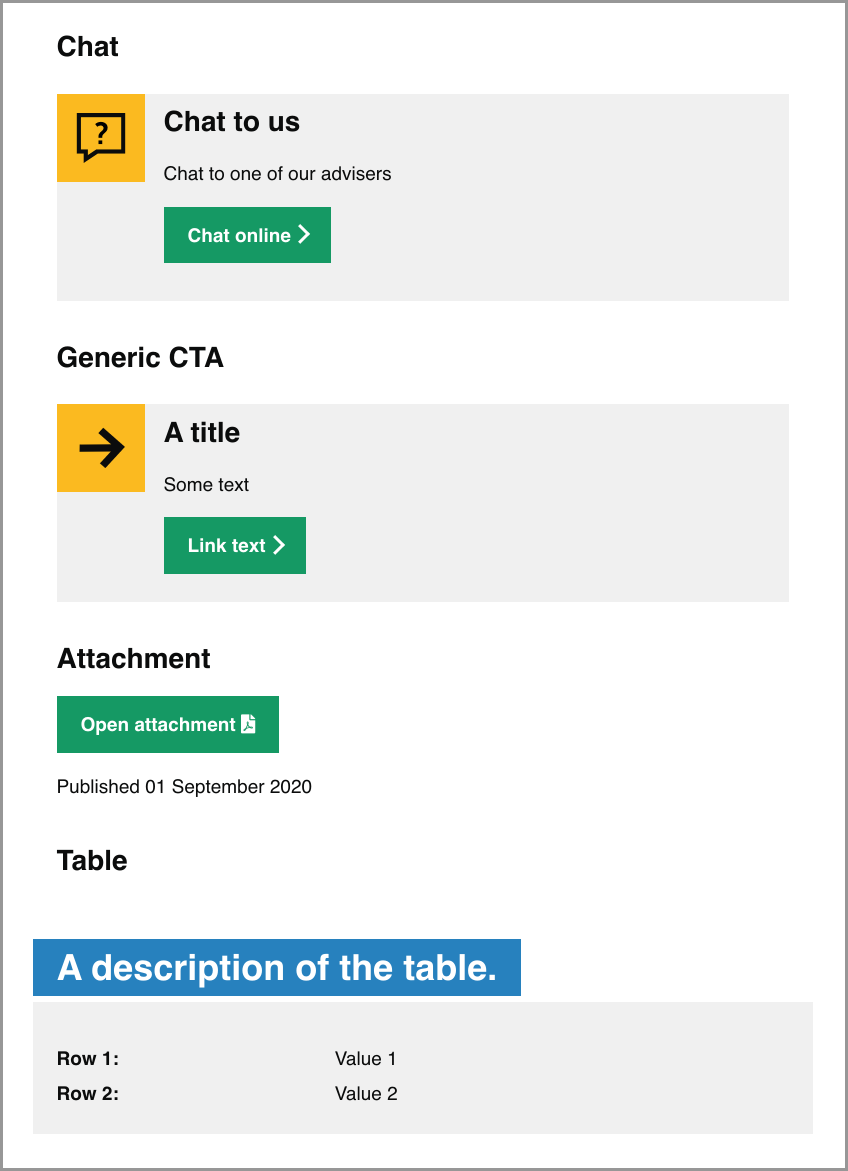
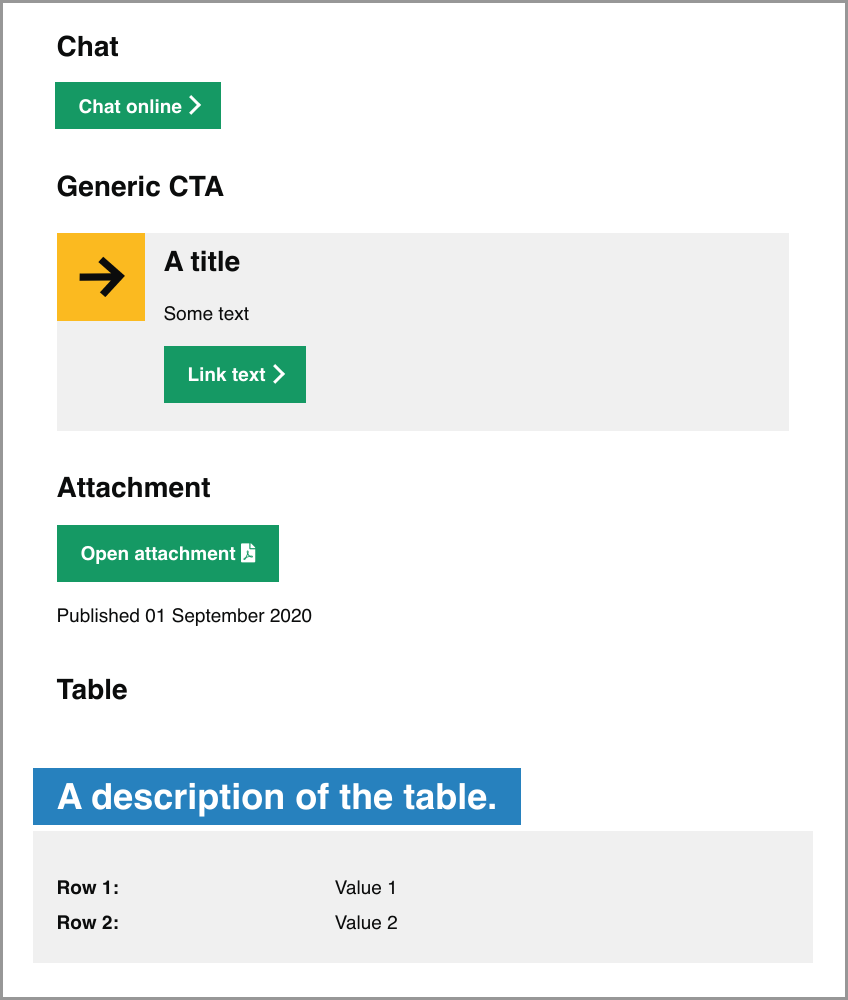
Remove unused ChatOnlineComponent
Removes the unused `ChatOnlineComponent` and updates the content docs.

Changed region(s): [[0.0307, 0.031, 0.6132, 0.961], [0.0, 0.992, 1.0, 1.0]]

diff --git a/spec/lib/template_handlers/markdown_spec.rb b/spec/lib/template_handlers/markdown_spec.rb
@@ -1,13 +1,5 @@
 require "rails_helper"
 
-module CallsToAction
-  class WithWhiteSpaceComponent < ViewComponent::Base
-    def call
-      "  text  "
-    end
-  end
-end
-
 describe TemplateHandlers::Markdown, type: :view do
   subject { rendered }
 
@@ -130,8 +122,10 @@ describe TemplateHandlers::Markdown, type: :view do
               "link_target" => "#",
               "icon" => "icon-arrow",
             },
+            "small-warning" => {
+              "name" => "attachment"
+            },
           },
-          "small-warning" => "chat_online",
         },
       }
     end
@@ -164,24 +158,6 @@ describe TemplateHandlers::Markdown, type: :view do
 
     specify "unregistered calls to action should be omitted" do
       expect(rendered).not_to have_content(/one-that-does-not-exist/)
-    end
-
-    context "when the rich content has surrounding white space" do
-      let(:front_matter_with_calls_to_action) do
-        {
-          "title": "Page with rich content (calls to action)",
-          "calls_to_action" => {
-            "big-warning" => "with_white_space",
-            "small-warning" => "with_white_space",
-          },
-        }
-      end
-
-      it "strips the white space" do
-        rendered_component = CallsToAction::WithWhiteSpaceComponent.new.call
-        expect(rendered).to include(rendered_component.strip)
-        expect(rendered).not_to include(rendered_component)
-      end
     end
   end
 

diff --git a/spec/components/content/accordion_component_spec.rb b/spec/components/content/accordion_component_spec.rb
@@ -55,7 +55,7 @@ describe Content::AccordionComponent, type: "component" do
   end
 
   describe "Calls to action" do
-    describe "chat_online" do
+    describe "chat" do
       subject do
         render_inline(described_class.new) do |accordion|
           accordion.step(title: title, call_to_action: call_to_action) do
@@ -65,7 +65,7 @@ describe Content::AccordionComponent, type: "component" do
       end
 
       describe "when a call to action is specified" do
-        let(:call_to_action) { "chat_online" }
+        let(:call_to_action) { "chat" }
 
         before { subject }
 
@@ -75,7 +75,7 @@ describe Content::AccordionComponent, type: "component" do
         end
 
         specify "the call to action should be rendered" do
-          expect(page).to have_css(".call-to-action--chat-online")
+          expect(page).to have_css(".chat")
         end
       end
 

diff --git a/app/presenters/content/call_to_action_component_injector.rb b/app/presenters/content/call_to_action_component_injector.rb
@@ -4,7 +4,6 @@ module Content
       "attachment" => CallsToAction::AttachmentComponent,
       "simple" => CallsToAction::SimpleComponent,
       "chat" => ChatComponent,
-      "chat_online" => CallsToAction::ChatOnlineComponent,
       "feature_table" => Content::FeatureTableComponent,
     }.freeze
 

diff --git a/spec/presenters/content/call_to_action_component_injector_spec.rb b/spec/presenters/content/call_to_action_component_injector_spec.rb
@@ -11,7 +11,6 @@ RSpec.describe Content::CallToActionComponentInjector, type: :component do
         "icon" => "icon-person",
       },
     },
-    "chat online component" => "chat_online",
     "attachment component" => {
       "name" => "attachment",
       "arguments" => {

diff --git a/docs/content.md b/docs/content.md
@@ -118,25 +118,6 @@ The key (`"media/images/content/hero-images/0001.jpg"`) is the **primary** varia
 * `alt:` - the alt text for the image, wrapped in quotes
 * `variants` - a list of **other versions of the same image**. The alternate versions can be thumbnails or crops and are considered alternates if the same `alt` text can be applied to them as the primary variant
 
-### Tuition fee and maintenance loans
-
-Lots of text.
-
-### Bursaries and scholorships
-
-Lots of text.
-
-# If you come from outside England
-
-Lots of text.
-```
-
-The above example would render out as follows:
-
-```
-<img src="images/jump_link_examples.png" alt="Example Jump Links" style="width: 500px;">
-```
-
 ### Calls to Action
 
 On some pages we want to include one or more calls to action; instead of copy/pasting the HTML for these sections we can specify and configure them in the frontmatter and then reference them in our content.
@@ -149,9 +130,8 @@ You can configure and reference calls to action as part of your main content:
 ---
 calls_to_action:
   chat:
-    name: chat_online
-    arguments:
-    text: "Chat to one of our advisers"
+    name: chat
+    arguments: {}
   attachment:
     name: attachment
     arguments:
